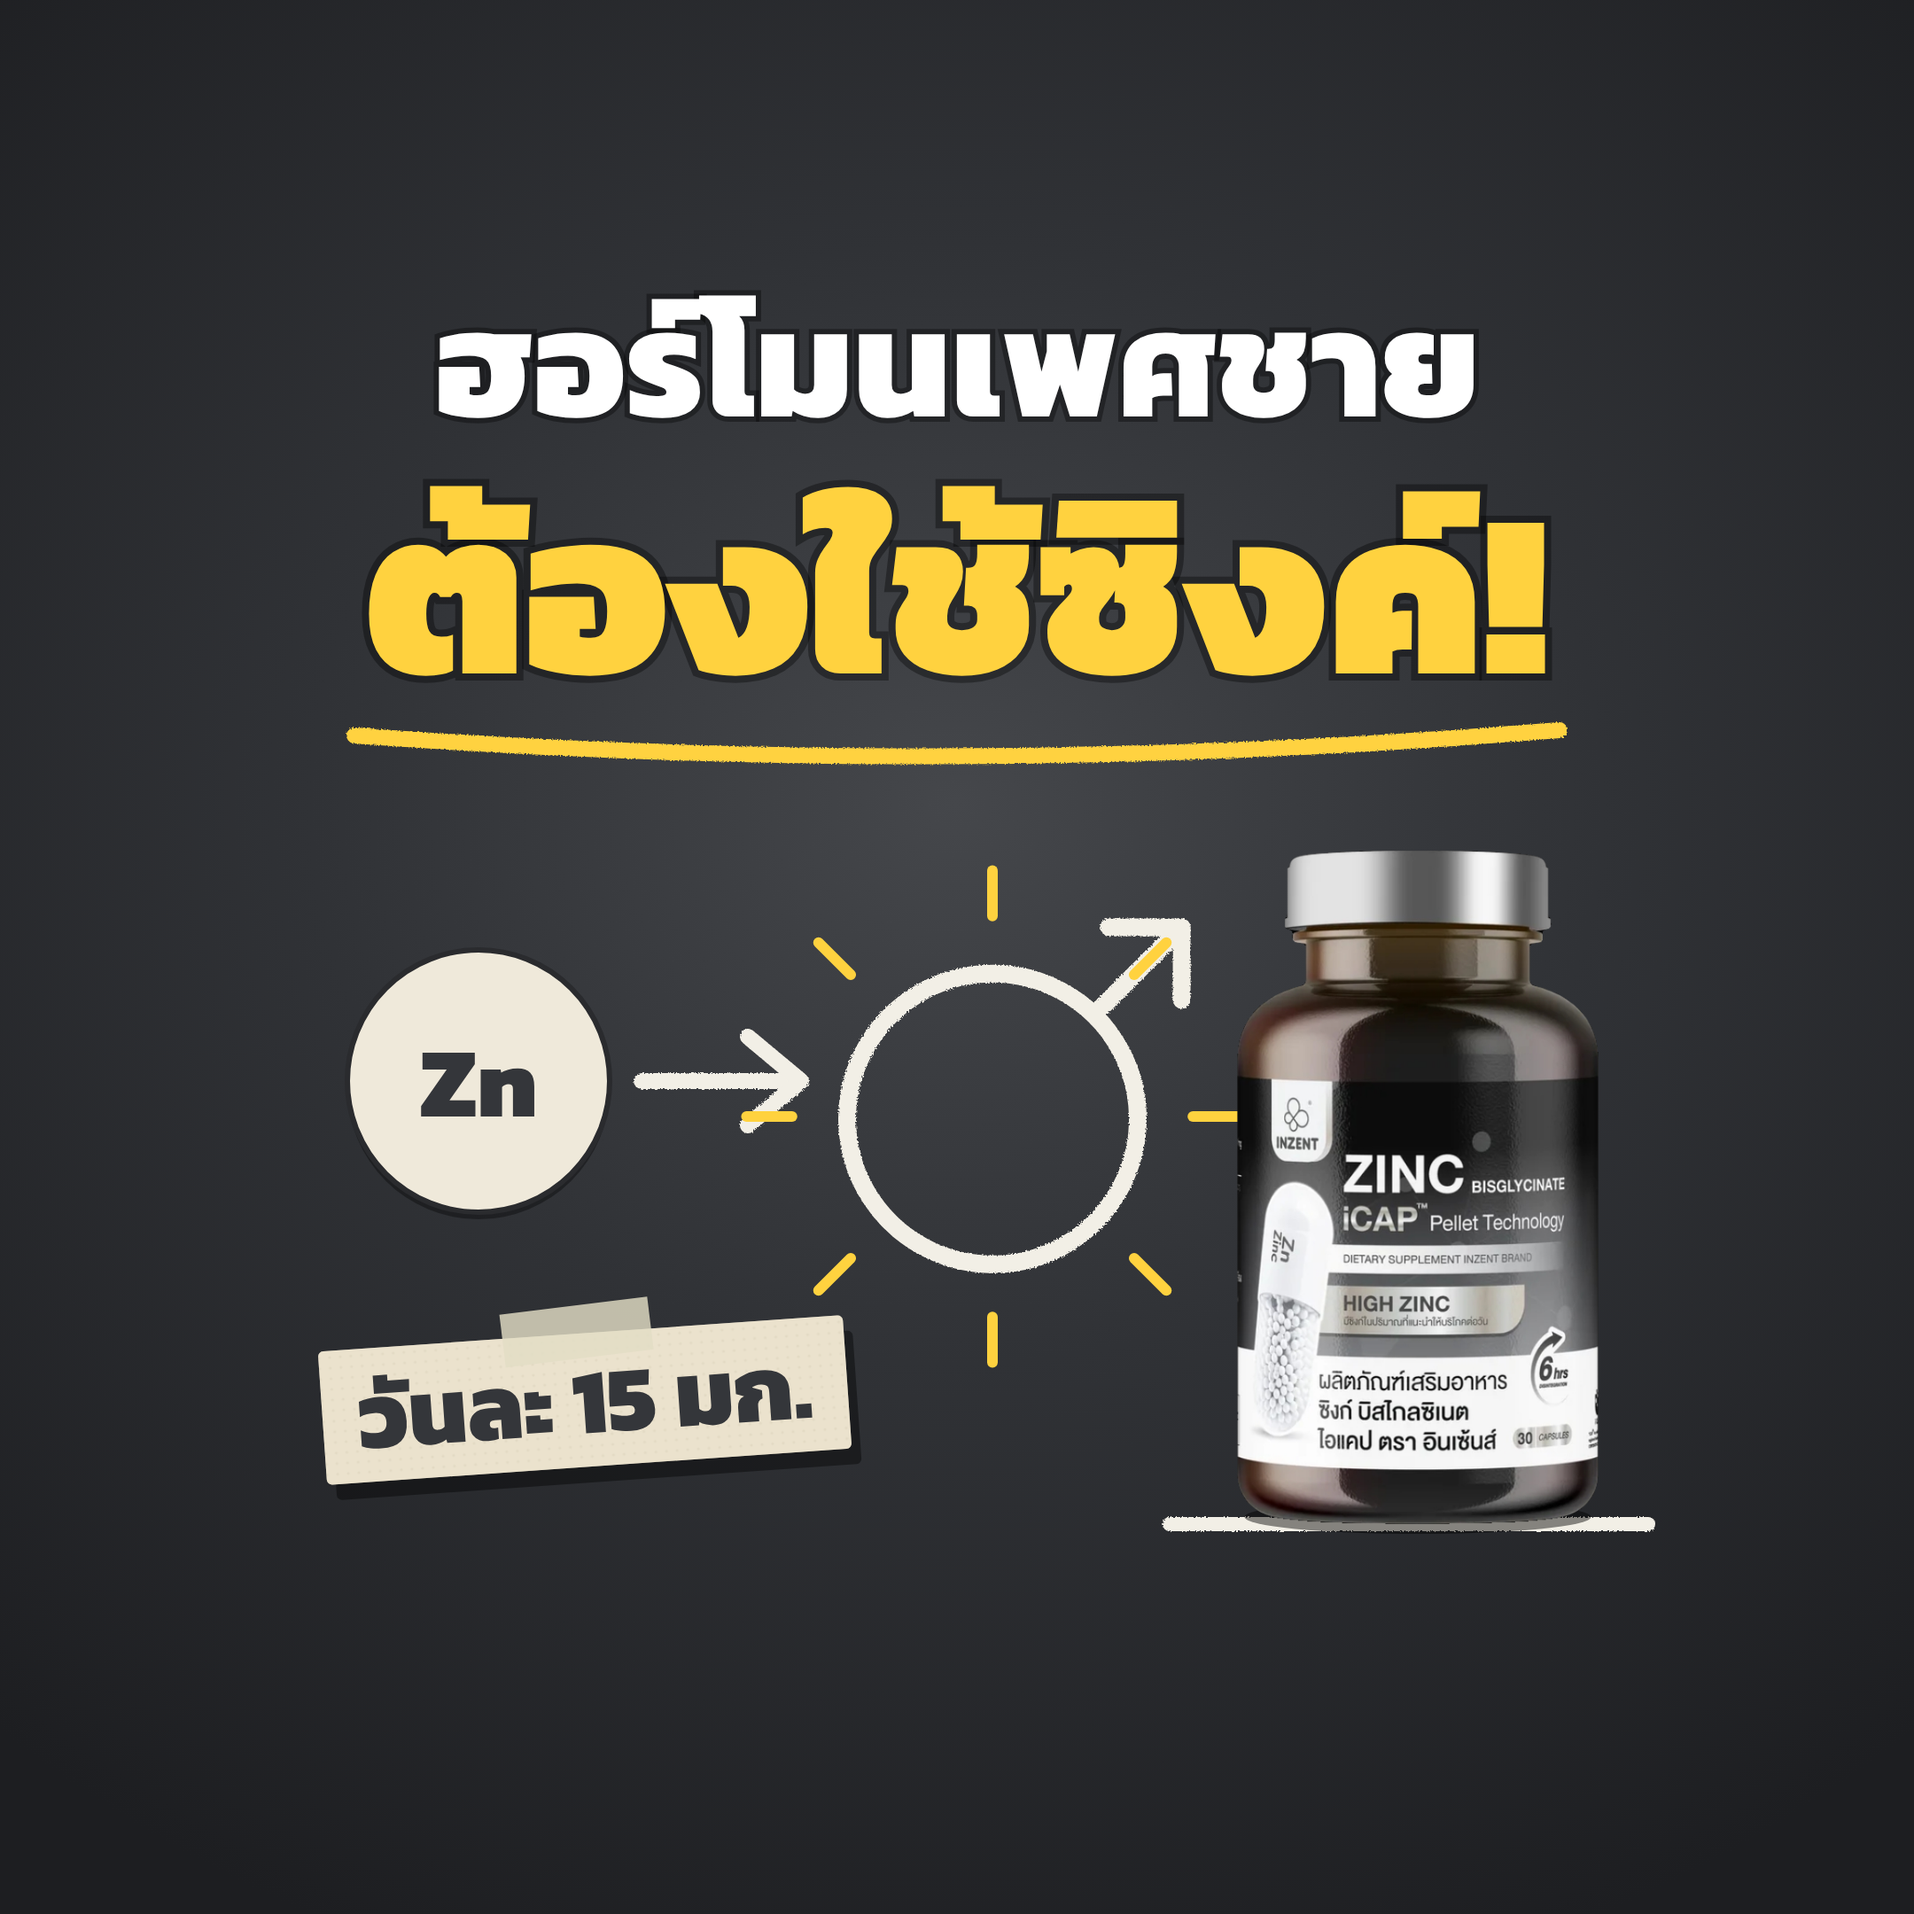
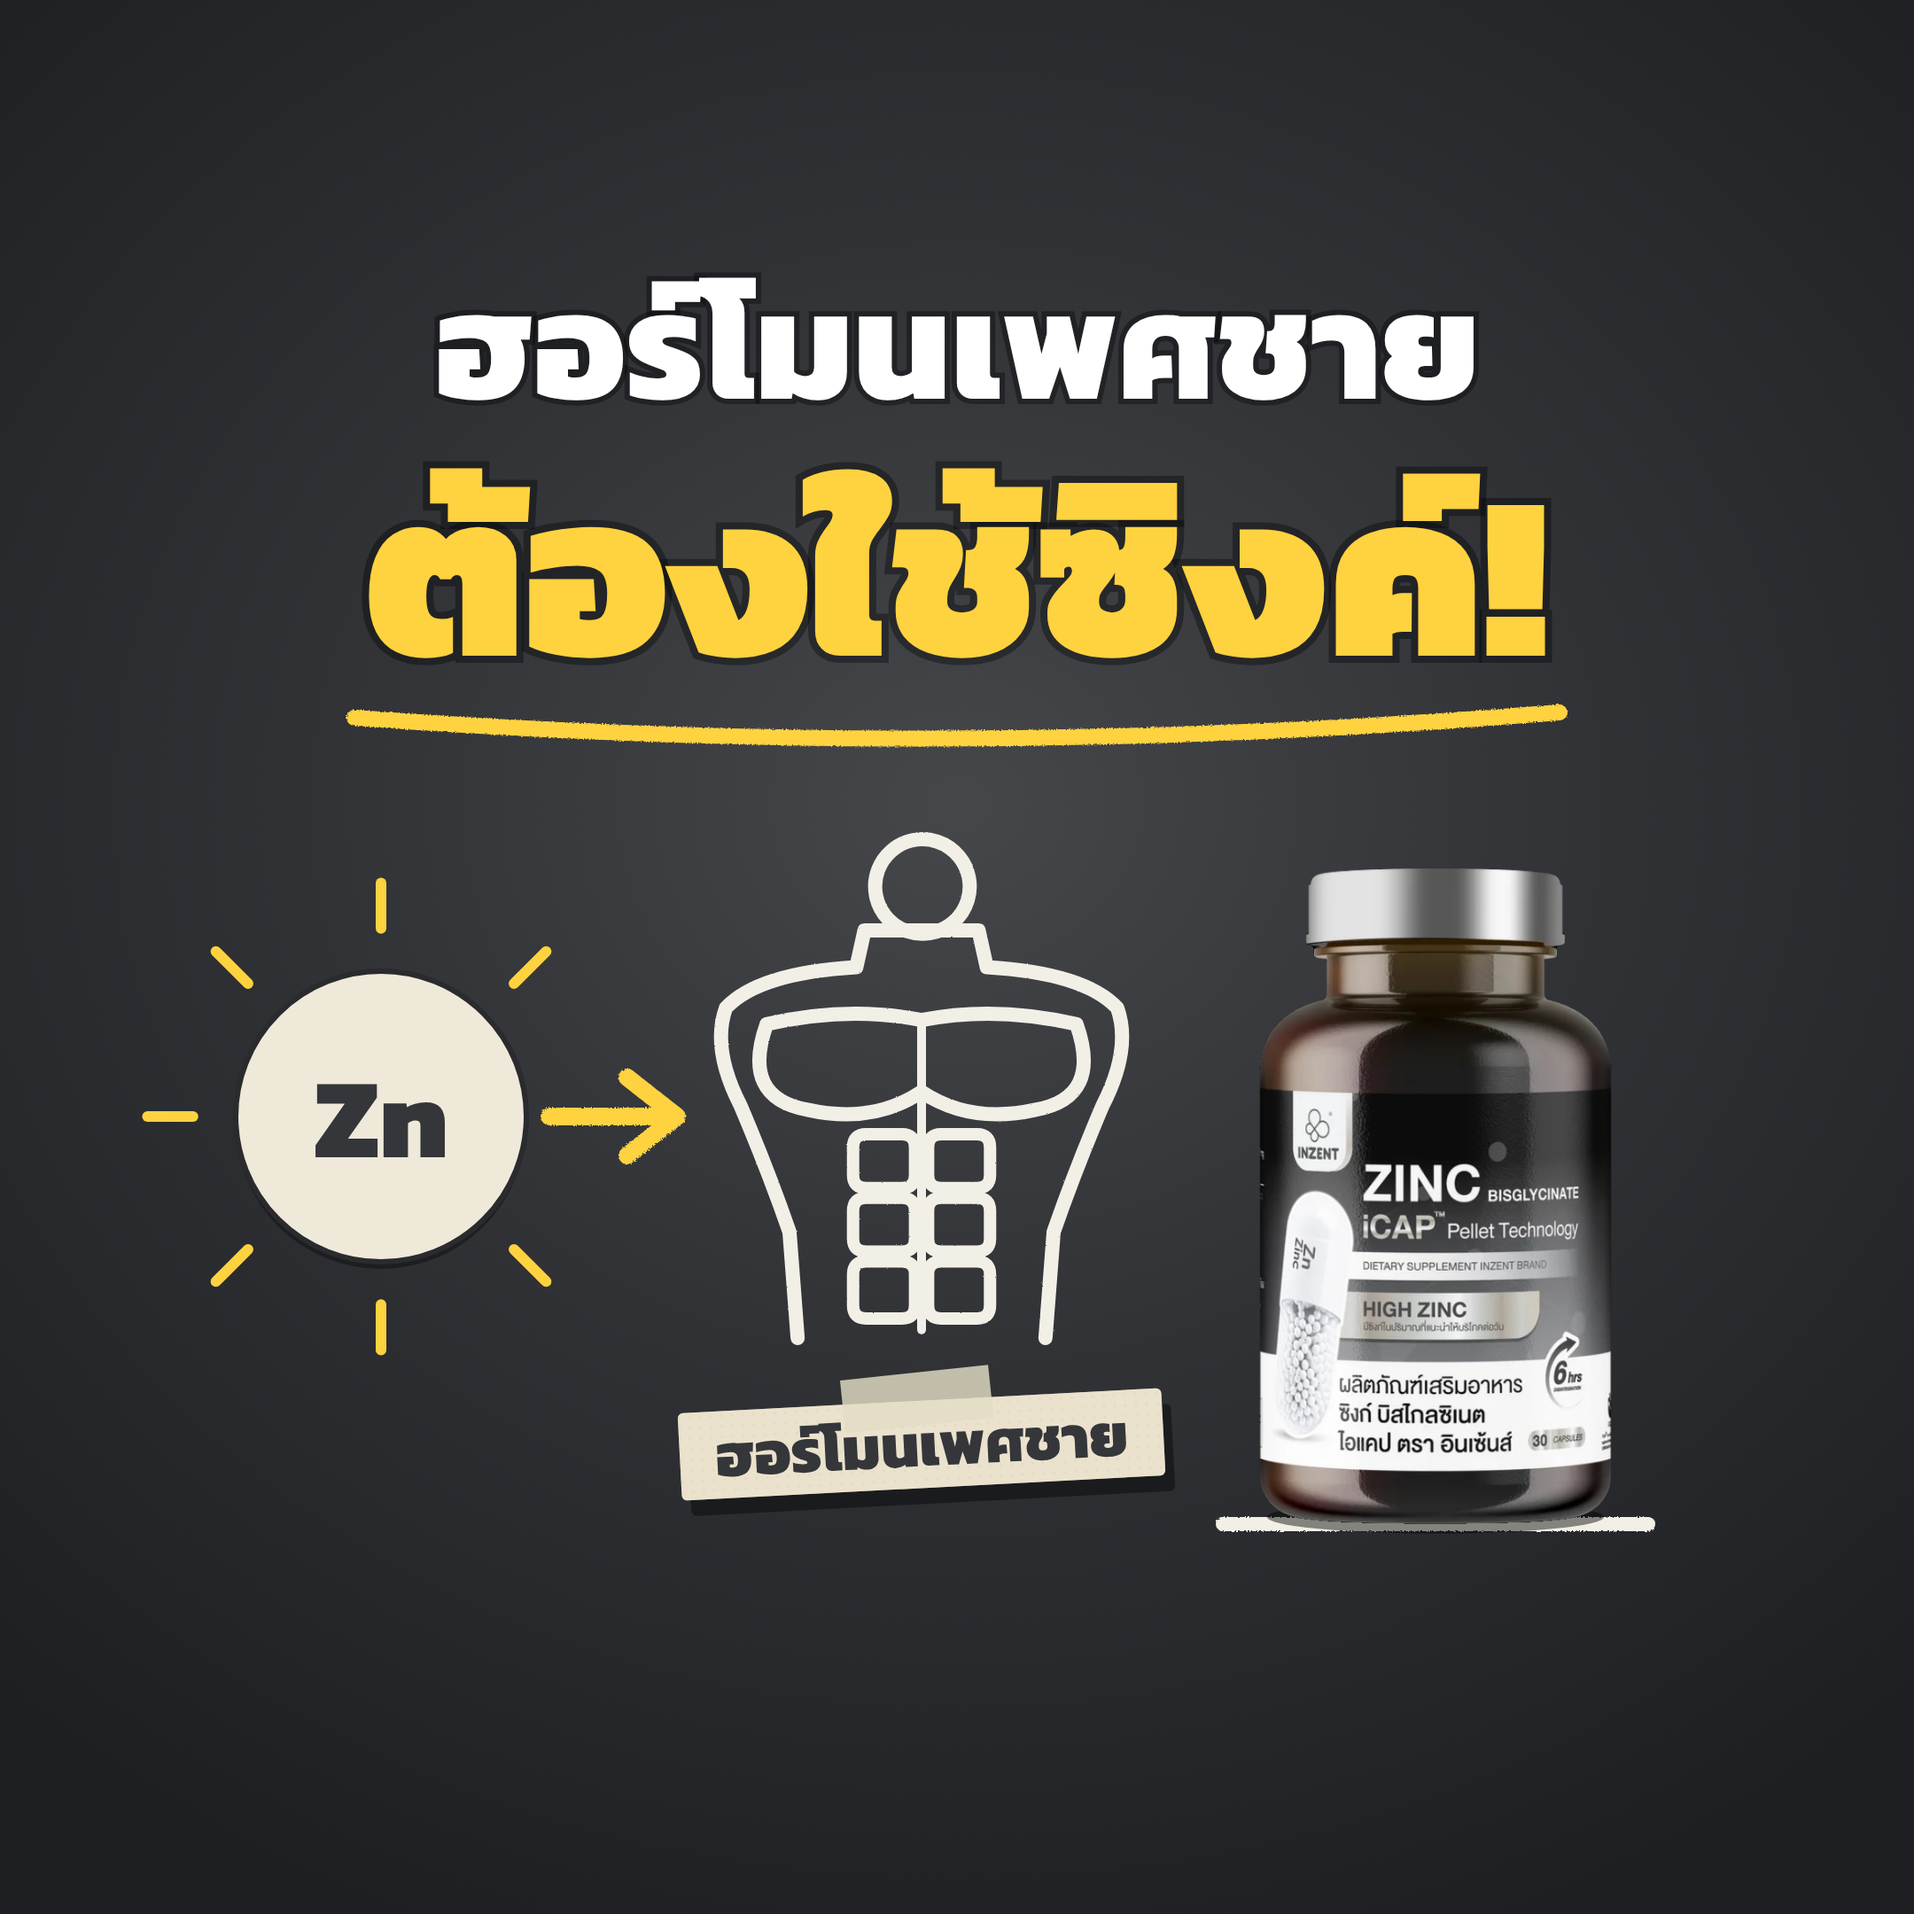
2411b: new cover (zinc -> muscular man + jar)
Claude-Session: https://claude.ai/code/session_013vK57eVktFSSND3HLSRc3b

diff --git a/output/src/2411b/cover.html b/output/src/2411b/cover.html
@@ -121,15 +121,28 @@ function setCap(t){let i=0;for(let k=0;k<CAPS.length;k++)if(t>=CAPS[k][0])i=k;
 const S=[];const sc=(s,e,f)=>S.push({s,e,f});
 const CX=540;
 
-// 1. hormone needs zinc  (frame 0 readable)
-sc(0,2.3,t=>{let o='';const pl=placeHand(t,'pinch',330,400,-0.5,.5,.35);
- o+=male(760,420,105,1,CH,9);
- o+=tag(760,610,'ฮอร์โมนเพศชาย',-3,34);
- o+=ch('M410,400 L620,400',P(t,.55,.5),8)+ch('M590,375 L620,400 L590,425',P(t,1.0,.15),8);
- o+=coin(330+(pl.arrived?0:pl.dx),400+(pl.arrived?0:pl.dy),62,'Zn','#efe9da',INK,46);
- o+=tag(330,500,'ซิงค์',3,30,P(t,.9,.2),pop(t,.9));
- const gl=P(t,1.75,.5);if(gl>0)o+=`<circle cx="760" cy="420" r="${105+gl*8}" fill="none" stroke="${YEL}" stroke-width="8" opacity="${Math.sin(gl*Math.PI)}"/>`;
- o+=ticks(760,420,130,P(t,1.75,.5),YEL,8);
+// 1. hormone needs zinc  (frame 0 readable): man -> testosterone molecule, zinc goes in
+function polyFrom(P1,P2,n){const pts=[P1,P2];let ang=Math.atan2(P2.y-P1.y,P2.x-P1.x);const a=Math.hypot(P2.x-P1.x,P2.y-P1.y);let c=P2;for(let i=0;i<n-2;i++){ang+=2*Math.PI/n;c={x:c.x+Math.cos(ang)*a,y:c.y+Math.sin(ang)*a};pts.push(c);}return pts;}
+function hexAt(cx,cy,a){const p=[];for(let i=0;i<6;i++){const t=(-90+60*i)*Math.PI/180;p.push({x:cx+a*Math.cos(t),y:cy+a*Math.sin(t)});}return p;}
+const pd=pts=>'M'+pts.map(q=>q.x.toFixed(1)+','+q.y.toFixed(1)).join(' L')+' Z';
+function testo(cx,cy,a){const r3=Math.sqrt(3);const A=hexAt(cx,cy,a),B=hexAt(cx+a*r3,cy,a),C=hexAt(cx+a*r3*1.5,cy-a*1.5,a);
+ const D=polyFrom(C[2],C[1],5); // pentagon on C's right edge
+ const top=D[3]||D[2];
+ return {rings:[pd(A),pd(B),pd(C),pd(D)],A,B,C,D};}
+sc(0,2.3,t=>{let o='';const pl=placeHand(t,'pinch',270,430,-0.5,.5,.35);
+ {const zx=270+(pl.arrived?0:pl.dx),zy=430+(pl.arrived?0:pl.dy);const pu=1+0.06*Math.sin(Math.max(0,t-1.0)*6)*P(t,1.0,.3);
+  o+=`<circle cx="${zx}" cy="${zy}" r="112" fill="rgba(255,210,63,.12)"/>`;o+=g(coin(0,0,92,'Zn','#efe9da',INK,72),{x:zx,y:zy,s:pu});o+=ticks(zx,zy,110,P(t,.1,.6),YEL,8);}
+ o+=tag(270,575,'ซิงค์',3,36);
+ o+=ch('M385,430 L530,430',P(t,.5,.4),10,YEL)+ch('M500,405 L532,430 L500,455',P(t,.85,.12),10,YEL);
+ {const k=.55,ox=720-540*k,oy=470-440*k;let m=ch(TL,1,8/k)+ch(TR,1,8/k)+ch(pec(0,-1),1,8/k)+ch(pec(0,1),1,8/k)+ch('M540,300 L540,680',1,5/k);
+  [[440,66],[518,66],[596,70]].forEach(([y,h])=>[[456,76],[548,76]].forEach(([x,w])=>{m+=ch(abBox(x,y,w,h),1,7/k);}));
+  m+=ch('M598,125 A58,58 0 1 1 597.9,124.5',1,8/k);o+=`<g transform="translate(${ox},${oy}) scale(${k})">${m}</g>`;}
+ const M=testo(815,262,27);M.rings.forEach(d=>o+=ch(d,1,5));const tp=M.D[3];o+=ch(`M${tp.x},${tp.y} L${tp.x+16},${tp.y-20}`,1,5)+`<text x="${tp.x+12}" y="${tp.y-24}" font-family="K" font-weight="800" font-size="26" fill="${CH}">OH</text>`;
+ o+=ch('M790,350 Q800,325 812,305',1,6)+ch('M796,310 L813,302 L815,322',1,6);
+ o+=tag(720,680,'ฮอร์โมนเพศชาย',-3,34);
+ o+=`<text x="720" y="752" font-family="K" font-weight="600" font-size="30" text-anchor="middle" fill="${CH}" opacity=".85">(เทสโทสเตอโรน)</text>`;
+ const gl=P(t,1.75,.5);if(gl>0)o+=`<circle cx="860" cy="225" r="${115+gl*8}" fill="none" stroke="${YEL}" stroke-width="6" opacity="${Math.sin(gl*Math.PI)*.85}"/>`;
+ o+=ticks(720,450,175,P(t,1.6,.5),YEL,8);
  return {o,h:pl.hand};});
 // 2. take 15 mg a day
 sc(2.3,4.2,t=>{let o='';const lt=t-2.3;
@@ -249,17 +262,18 @@ sc(27.0,29.85,t=>{let o='';
  const fo=P(t,29.15,.3);if(fo>0){o+=`<rect x="160" y="100" width="350" height="620" fill="#1d1e21" opacity="${fo*.55}"/>`;o+=`<ellipse cx="750" cy="420" rx="${200+10*(1-fo)}" ry="${330+10*(1-fo)}" fill="none" stroke="${RED}" stroke-width="9" pathLength="1" stroke-dasharray="1 1" stroke-dashoffset="${1-fo}"/>`;}
  return {o,h:''};});
 // 15. 6 hours chart
-sc(29.85,32.75,t=>{let o='';const X0=230,Y0=650,XW=640,YH=440,hx=h=>X0+h/8*XW,vy=v=>Y0-v*YH;
+sc(29.85,32.75,t=>{let o='';const X0=230,Y0=640,XW=640,YH=330,hx=h=>X0+h/8*XW,vy=v=>Y0-v*YH;
  const ax=`M${X0},${Y0-YH-20} L${X0},${Y0} L${X0+XW+20},${Y0}`;
- const blue=`M${hx(0)},${vy(0)} C${hx(1)},${vy(.4)} ${hx(1.8)},${vy(.8)} ${hx(2.5)},${vy(.8)} C${hx(3.5)},${vy(.8)} ${hx(5)},${vy(.25)} ${hx(8)},${vy(.08)}`;
- const gold=`M${hx(0)},${vy(0)} C${hx(.6)},${vy(.5)} ${hx(1)},${vy(.82)} ${hx(1.8)},${vy(.85)} L${hx(6)},${vy(.85)} C${hx(6.8)},${vy(.85)} ${hx(7.3)},${vy(.55)} ${hx(8)},${vy(.4)}`;
+ const fpath=f=>{let d='';for(let j=0;j<=80;j++){const h=8*j/80;d+=(j?' L':'M')+hx(h).toFixed(1)+','+vy(f(h)).toFixed(1);}return d;};
+ const blue=fpath(h=>h<=0?0:.8*Math.exp(-Math.pow(Math.log(h/1.8),2)/(2*.55*.55)));
+ const gold=fpath(h=>{const r=.6*(1-Math.exp(-h/.42));const x=cl((h-5.7)/2.3);return r*(1-.5*x*x*(3-2*x));});
  const hs=drawSeq(t,'chalk',[{d:ax,a:29.9,dur:.45},{d:gold,a:30.95,dur:1.2}],{exit:.35});
  o+=ch(ax,hs.p[0],7)+ch(blue,P(t,30.4,.5),8,BLU)+ch(gold,hs.p[1],10,YEL);
  for(let h=0;h<=8;h+=2)o+=g(`<text x="0" y="0" font-family="K" font-weight="600" font-size="26" text-anchor="middle" fill="${CH}">${h}</text>`,{x:hx(h),y:Y0+38,o:P(t,30.2,.2)});
  o+=g(`<text font-family="K" font-weight="600" font-size="24" fill="${CH}">ชม.</text>`,{x:X0+XW+5,y:Y0+38,o:P(t,30.2,.2)});
- const m=P(t,32.15,.3);o+=ch(`M${hx(6)},${vy(.85)-20} L${hx(6)},${Y0}`,m,5,YEL,'stroke-dasharray="0.04 0.03"');
- o+=tag(hx(6),vy(.85)-60,'6 ชม.',-3,40,m,pop(t,32.15));
- o+=tag(hx(1.9),vy(.8)+90,'ทั่วไป',2,26,P(t,30.8,.15),1,'#3a5c94');o+=tag(hx(4),vy(.85)-50,'iCAP',-2,30,P(t,31.6,.15));
+ const m=P(t,32.15,.3);o+=ch(`M${hx(6)},${vy(.6)-30} L${hx(6)},${Y0}`,m,5,YEL,'stroke-dasharray="0.04 0.03"');
+ o+=tag(hx(6),Y0+95,'6 ชม.',-3,40,m,pop(t,32.15));
+ o+=tag(hx(1.7),vy(.8)-50,'ทั่วไป',2,26,P(t,30.8,.15),1,'#3a5c94');o+=tag(hx(7.2),vy(.5)-55,'iCAP',-2,30,P(t,31.6,.15));
  return {o,h:hs.hand};});
 // 16. answers hormone needs
 sc(32.75,35.7,t=>{let o='';
@@ -301,14 +315,16 @@ window.render=function(t){UID=0;let o='',h='';
 render(0);
 </script><script>
 window.render=function(){UID=0;let o='';
- o+=`<text x="540" y="235" font-family="K" font-weight="800" font-size="86" text-anchor="middle" fill="#fff" style="paint-order:stroke" stroke="rgba(0,0,0,.35)" stroke-width="6">ฮอร์โมนเพศชาย</text>`;
- o+=`<text x="540" y="380" font-family="K" font-weight="900" font-size="132" text-anchor="middle" fill="${YEL}" style="paint-order:stroke" stroke="rgba(0,0,0,.35)" stroke-width="8">ต้องใช้ซิงค์!</text>`;
- o+=ch('M200,415 Q540,440 880,412',1,9,YEL);
- o+=coin(270,610,74,'Zn','#efe9da',INK,56);
- o+=ch('M362,610 L450,610',1,9)+ch('M422,585 L452,610 L422,635',1,9);
- o+=male(560,630,82,1,CH,10);o+=ticks(560,630,105,.45,YEL,8);
- o+=ch('M660,860 L930,860',1,8);o+=jar(800,860,380);
- o+=tag(330,790,'วันละ 15 มก.',-4,40);
+ o+=`<text x="540" y="225" font-family="K" font-weight="800" font-size="86" text-anchor="middle" fill="#fff" style="paint-order:stroke" stroke="rgba(0,0,0,.35)" stroke-width="6">ฮอร์โมนเพศชาย</text>`;
+ o+=`<text x="540" y="370" font-family="K" font-weight="900" font-size="132" text-anchor="middle" fill="${YEL}" style="paint-order:stroke" stroke="rgba(0,0,0,.35)" stroke-width="8">ต้องใช้ซิงค์!</text>`;
+ o+=ch('M200,405 Q540,430 880,402',1,9,YEL);
+ o+=coin(215,630,82,'Zn','#efe9da',INK,64)+ticks(215,630,98,.45,YEL,8);
+ o+=ch('M310,630 L380,630',1,10,YEL)+ch('M354,608 L382,630 L354,652',1,10,YEL);
+ {const k=.46,ox=520-540*k,oy=640-440*k;let m=ch(TL,1,8/k)+ch(TR,1,8/k)+ch(pec(0,-1),1,8/k)+ch(pec(0,1),1,8/k)+ch('M540,300 L540,680',1,5/k);
+  [[440,66],[518,66],[596,70]].forEach(([y,h])=>[[456,76],[548,76]].forEach(([x,w])=>{m+=ch(abBox(x,y,w,h),1,7/k);}));
+  m+=ch('M598,125 A58,58 0 1 1 597.9,124.5',1,8/k);o+=`<g transform="translate(${ox},${oy}) scale(${k})">${m}</g>`;}
+ o+=tag(520,815,'ฮอร์โมนเพศชาย',-3,26);
+ o+=ch('M690,860 L930,860',1,8);o+=jar(810,860,370);
  sv.innerHTML=DEFS+o;capEl.innerHTML='';};
 render();
 </script></body></html>
